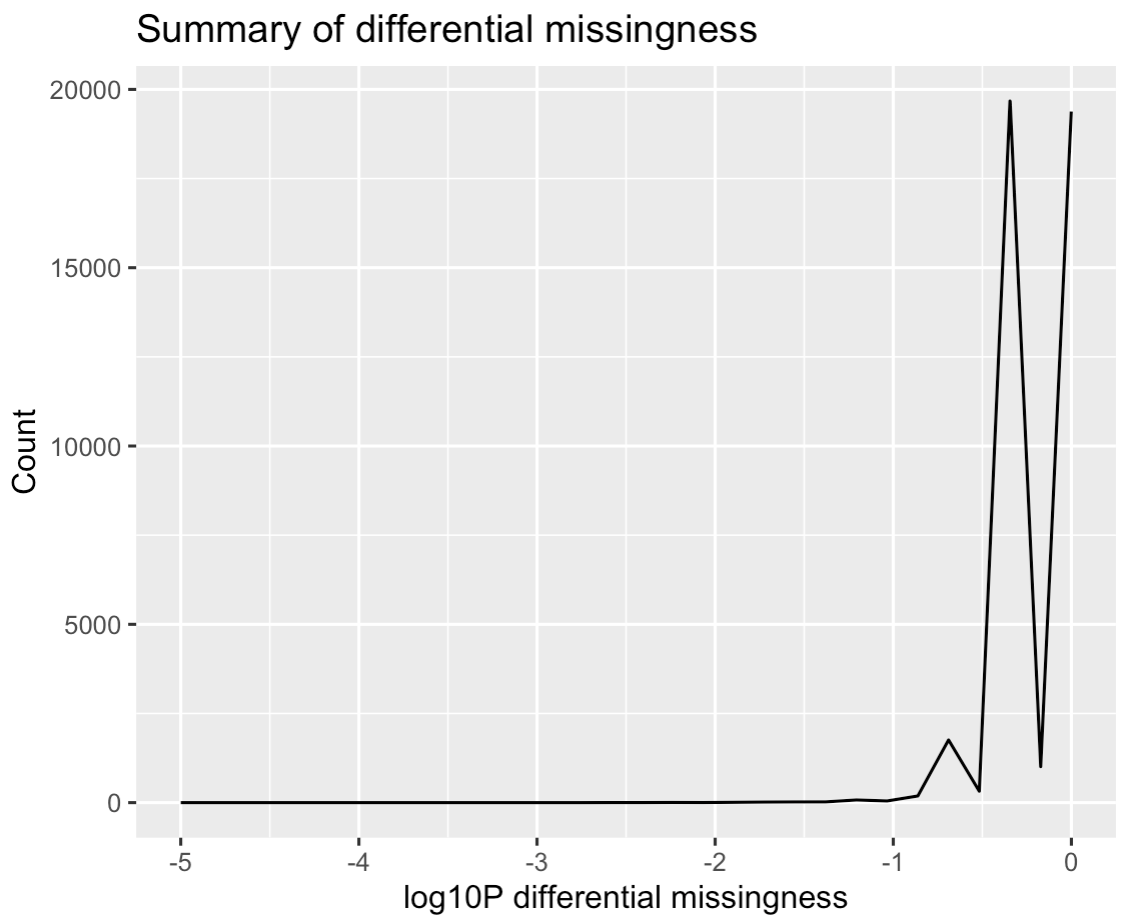
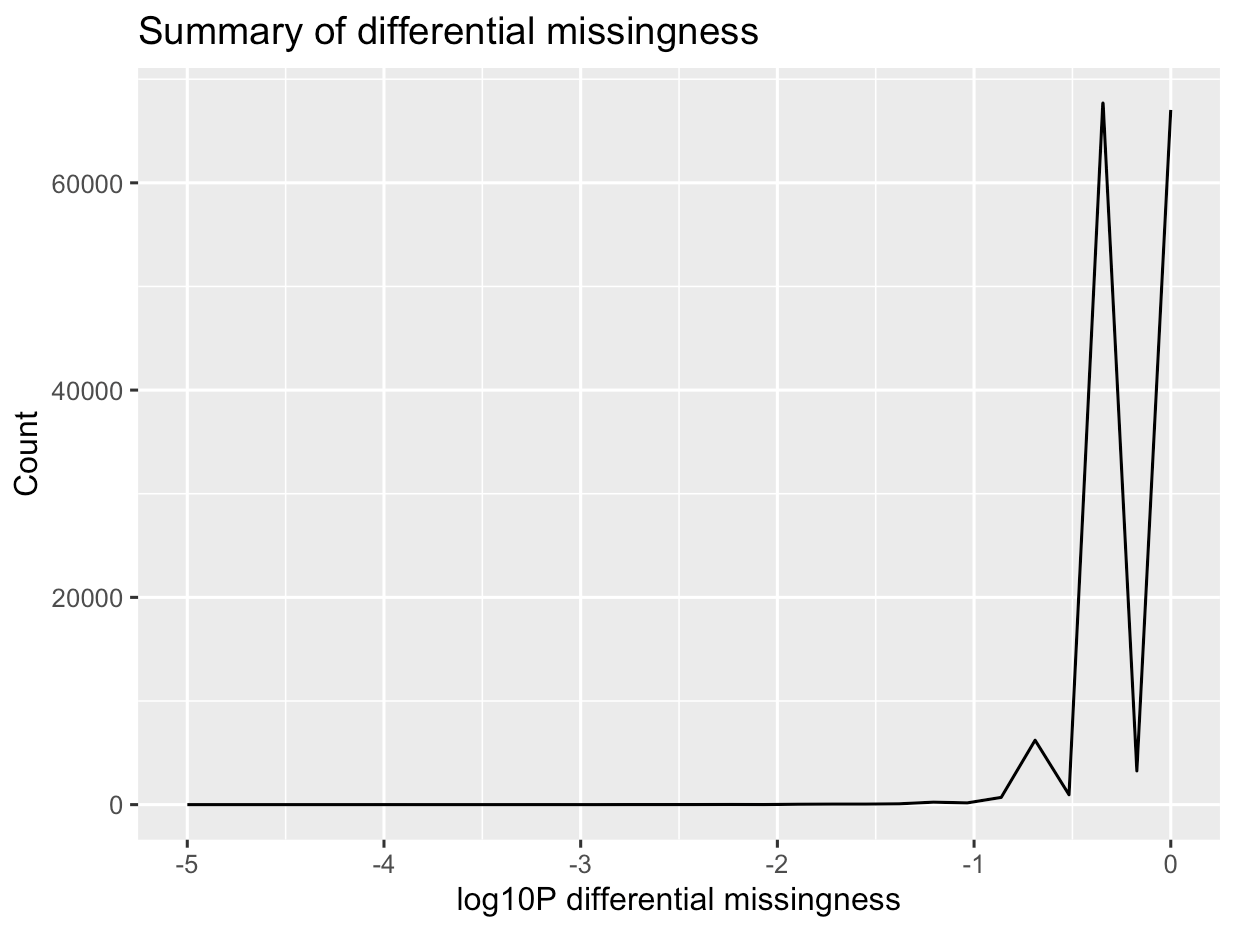
update codes and report of A3

diff --git a/A3/BIM3007-Assignment 3.md b/A3/BIM3007-Assignment 3.md
@@ -2,7 +2,7 @@
 
 Author: Junyang Deng 120090791
 
-Date: Nov 11 2022
+Date: Dec 4 2022
 
 ### Requirement
 
@@ -86,7 +86,7 @@ First check heterozygosity
 
 Output file: `step3.het`
 
-<img src="image/step3-het.png" alt="step3-het" style="zoom:50%;" />
+<img src="image/step3-het.png" alt="step3-het" style="zoom:35%;" />
 
 ```bash
 ~/plink --bfile step2-rm-missing --indep-pairwise 50 5 0.1 --out step3-LD
@@ -112,7 +112,7 @@ Check the heterozygosity rate again using the pruned data
 
 Output file: `step3-pruned.het`
 
-<img src="image/step3-pruned-het.png" alt="step3-pruned-het" style="zoom:50%;" />
+<img src="image/step3-pruned-het.png" alt="step3-pruned-het" style="zoom:35%;" />
 
 A barplot is drawn from `step3-pruned.het` as follow (the red dashed lines are on `y=-0.05` and `y=0.05` separately). Then, removed samples with abnormal rate of heterozygosity. 
 
@@ -132,7 +132,7 @@ ggplot(data=data, aes(x=n,y=F))+
   xlim(c(0, 1000))
 ```
 
-<img src="image/plot-heterozygosity-rate.png" alt="step3-pruned-het" style="zoom:40%;" />
+<img src="image/plot-heterozygosity-rate.png" alt="step3-pruned-het" style="zoom:35%;" />
 
 
 
@@ -143,12 +143,6 @@ awk '$6 > 0.05 || $6 < -0.05' step3-pruned.het | less > fail-het-check.txt
 ```
 
 <img src="image/fail-het-check.png" alt="fail-het-check" style="zoom:40%;" />
-
-```bash
-~/plink --bfile step3-LD-pruned --remove fail-het-check.txt --make-bed --out step3-het-pruned
-```
-
-Result: `5` samples are removed. (996 people remained.)
 
 #### 3.4 remove IBD
 
@@ -171,18 +165,6 @@ awk '{ if ($10 > 0.185) print $0 }' step4-IBD.genome > fail-IBD.txt
 ```
 
 <img src="image/related.png" alt="related" style="zoom:50%;" />
-
-Remove them:
-
-```bash
-~/plink --bfile step3-het-pruned --remove fail-IBD.txt --make-bed --out step4-IBD-pruned
-```
-
-Result:
-
-```
---remove: 994 people remaining
-```
 
 #### 3.5 Solve the stratification problem
 
@@ -211,6 +193,24 @@ ggplot(data=data)+
 
 We can see from the PCA scatter plot and the variance plot that the sample is very homogenous. Therefore nothing should be removed.
 
+#### Remove all the samples that fail the quality test
+
+```bash
+# first combine ids in different files
+cat fail-* | sort -k1 | uniq > fail-qc-samples.txt
+# then remove these files from the step2 bfile
+~/plink --bfile ../data/step2-rm-missing --remove fail-qc-samples.txt --make-bed --out qced-samples
+```
+
+Result:
+
+```
+1001 people (403 males, 598 females) loaded from .fam.
+995 phenotype values loaded from .fam.
+--remove: 991 people remaining.
+Warning: At least 8 duplicate IDs in --remove file.
+```
+
 ### 4. Perform QC for genetic variants
 
 #### 4.1 (Step 6) Identify and remove low minor allele frequency SNPs
@@ -225,9 +225,10 @@ output: `step6-maf.frq`
 Result:
 
 ```
-415 variants removed due to minor allele threshold(s)
-137725 variants and 994 people pass filters and QC.
-Among remaining phenotypes, 490 are cases and 498 are controls.  (6 phenotypes
+997 variants removed due to minor allele threshold(s)
+(--maf/--max-maf/--mac/--max-mac).
+481091 variants and 991 people pass filters and QC.
+Among remaining phenotypes, 489 are cases and 496 are controls.  (6 phenotypes
 are missing.)
 ```
 
@@ -243,7 +244,7 @@ Result
 
 ```
 0 people removed due to missing genotype data (--mind).
-14 variants removed due to missing genotype data (--geno).
+48 variants removed due to missing genotype data (--geno).
 ```
 
 #### 4.3 (Step 8) Remove SNP with differentially missingness
@@ -254,7 +255,7 @@ Result
 
 Output: `step8-dif-miss.missing`
 
-<img src="image/dif-mis.png" alt="dif-mis" style="zoom:50%;" />
+<img src="image/dif-mis.png" alt="dif-mis" style="zoom:35%;" />
 
 <img src="image/plot-dif-miss.png" alt="plot-dif-miss" style="zoom:35%;" />
 
@@ -284,7 +285,7 @@ Result:
 
 ```
 --hwe: 8 variants removed due to Hardy-Weinberg exact test.
-137703 variants and 994 people pass filters and QC.
+481035 variants and 991 people pass filters and QC.
 ```
 
 ### 5. Perform association tests, show Manhattan plot
@@ -299,42 +300,22 @@ Output: `qc.assoc`
 
 <img src="image/qc-assoc-test.png" alt="qc-assoc-test" style="zoom:50%;" />
 
-做到这
-
 Use R to find the most significant allele
 
 ```R
 data <- read.table('./qc.assoc', header=T)
-head(data)
-sorted <- data[order(data$P),]
-
 data[which.min(data$P),]
 ```
 
 Output
 
-<img src="image/R-qc-sorted.png" alt="R-qc-sorted" style="zoom:40%;" />
-
-<img src="image/R-qced-assoc-test.png" alt="R-qced-assoc-test" style="zoom:60%;" />
-
-Before QC
-
-<img src="image/before-qc.png" alt="before-qc" style="zoom:50%;" />
-
-
+<img src="image/R-qced-assoc-test.png" alt="R-qced-assoc-test" style="zoom:40%;" />
 
 Manhattan plots before and after QC
 
-```R
-# sample code
-library(qqman)
-test <- read.table('./qc.assoc', header=T) # or before-qc.assoc
-manhattan(test, main="Manhattan Plot", ylim=c(0,25), cex=0.6, cex.axis=0.9, col=c("blue4", "orange3"), chrlabs=c(1:22, "P","Q"))
-```
+<img src="image/before-qc.jpeg" alt="before" style="zoom: 33%;" />
 
-<img src="image/before-qc-man.png" alt="before-qc-man" style="zoom: 33%;" />
-
-<img src="image/qc-man.png" alt="qc-man" style="zoom: 33%;" />
+<img src="image/plot-man-qc.jpeg" alt="qc-man" style="zoom: 33%;" />
 
 ### QQ plot
 
@@ -348,7 +329,7 @@ gwasResults <- read.table('./before-qc.assoc', header=T)
 p_value2 <- gwasResults$P
 z2 <- qnorm(p_value2 / 2)
 lambda2 <- round(median(z2^2, na.rm = TRUE) / 0.454, 3)
-lambda
+lambda2
 ```
 
 `[1] 1.195`
@@ -358,24 +339,28 @@ lambda
 qq(gwasResults$P, main = "Q-Q plot of GWAS p-values (No QC)", xlim = c(0, 7), ylim = c(0,12), pch = 18, col = "blue4", cex = 1, las = 1)
 ```
 
-<img src="image/qqplot-no-qc.png" alt="qqplot-qc" style="zoom:50%;" />
+<img src="image/qqplot-no-qc.png" alt="qqplot-qc" style="zoom:35%;" />
 
 After QC
-
-```R
-# inflation
-gwasResult <- read.table('./qc.assoc', header=T)
-p_value <- gwasResult$P
-z <- qnorm(p_value / 2)
-lambda <- round(median(z^2, na.rm = TRUE) / 0.454, 3) # qchisq(0.5, 1)=0.454
-```
-
-`[1] 1.02`
 
 ```R
 # QQ plot
 qq(gwasResult$P, main = "Q-Q plot of GWAS p-values (QCed)", xlim = c(0, 7), ylim = c(0,    12), pch = 18, col = "blue4", cex = 1.5, las = 1)
 ```
 
-<img src="image/qqplot-qc.png" alt="qqplot-qc" style="zoom:50%;" />
+<img src="image/qqplot-qc.png" alt="qqplot-qc" style="zoom:35%;" />
+
+We can also calculate the inflation factor using `PLINK`
+
+```bash
+~/plink --bfile chrAll.ASA --adjust --assoc # before qc, lambda is 1.189
+```
+
+<img src="image/inflation-1.png" alt="inflation1" style="zoom: 33%;" />
+
+```bash
+~/plink --bfile step9-hwe --adjust --assoc # after qc, lambda becomes 1.019
+```
+
+<img src="image/inflation-2.png" style="zoom:30%;" />
 
